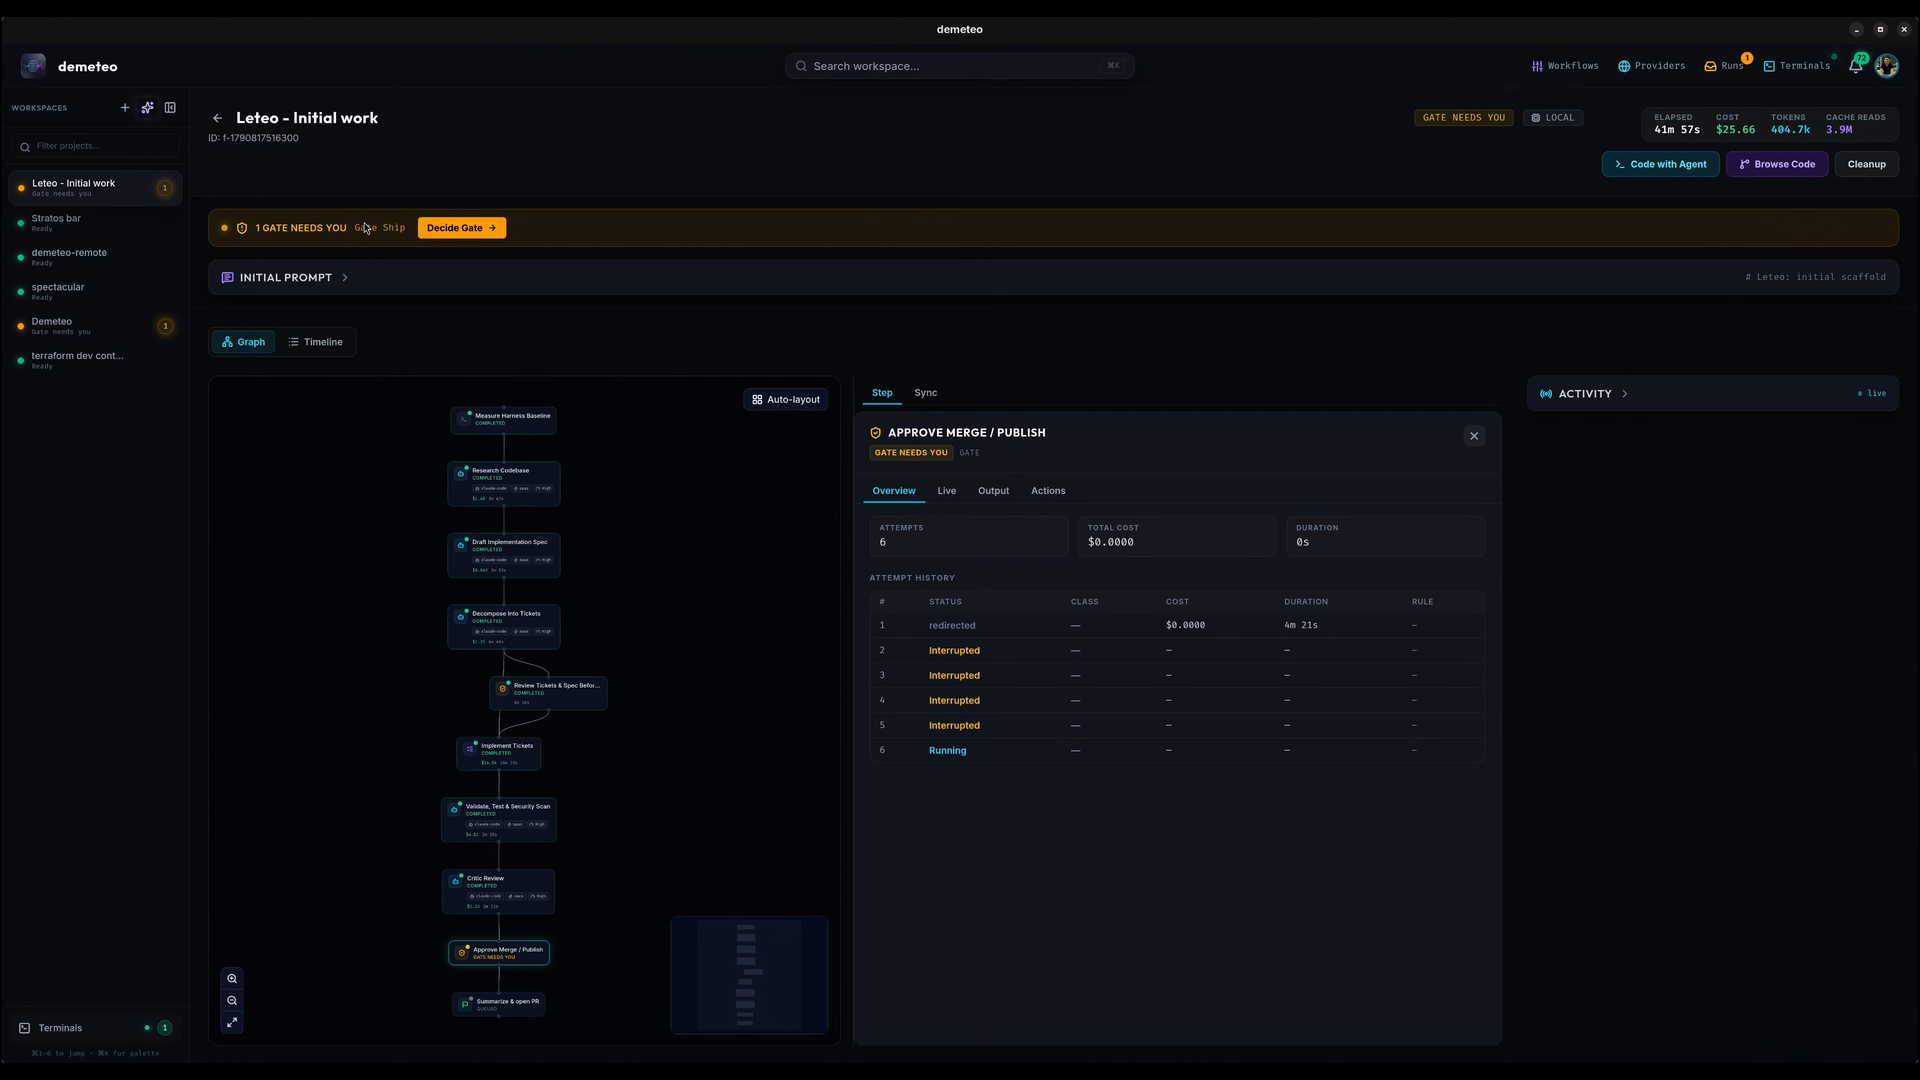
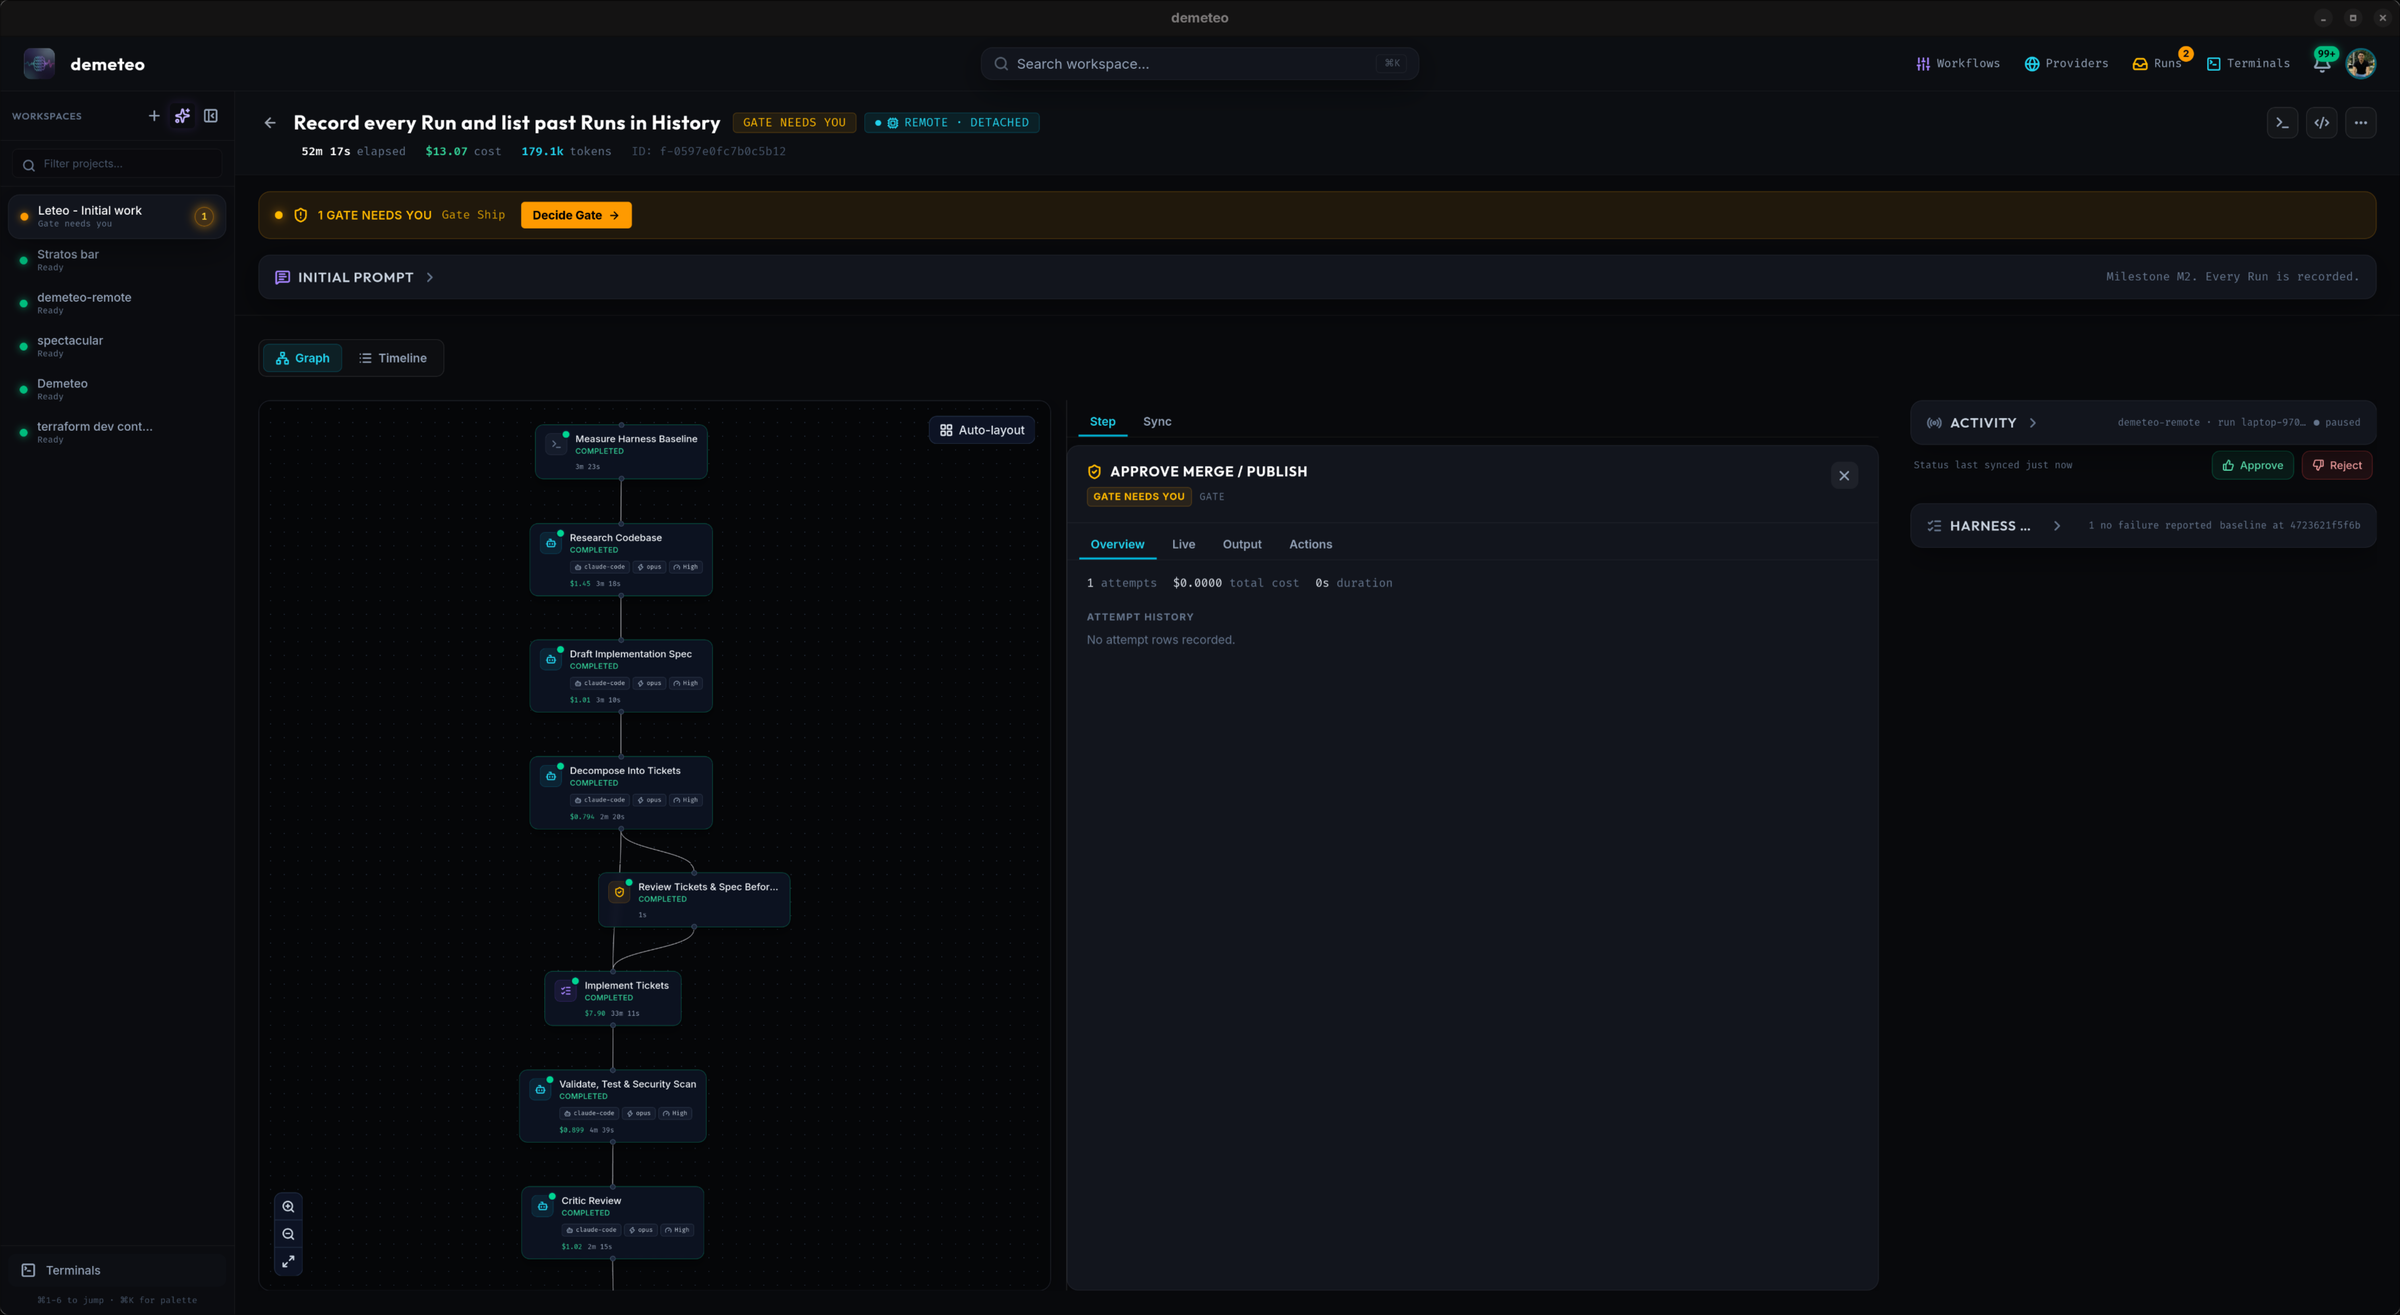
docs: replace the gate-needs-you frame with a native capture
The old frame was downscaled from a 4K recording. The new capture is a
detached run on a remote runner, so the captions now say so: it renders
the same as a local run, which is the point of the parity contract.

diff --git a/README.md b/README.md
@@ -68,8 +68,8 @@ the result to a **critic** agent whose only job is finding what the others got w
 
 | | |
 |---|---|
-| ![Feature pipeline with a "1 gate needs you" banner and the step graph](docs-site/assets/screenshots/pipeline-gate-needs-you.png) | ![Implement Tickets panel: the original decomposition and two rework rounds, every ticket landed with its cost](docs-site/assets/screenshots/pipeline-implement-tickets.png) |
-| **Pipeline view** — live step graph, elapsed time, cost and tokens; a banner when a gate is waiting on you. | **Implement** — one fresh agent per ticket, each with its cost; validation failures come back as rework rounds. |
+| ![A remote, detached feature pipeline with a "1 gate needs you" banner, the step graph, and the ship gate selected](docs-site/assets/screenshots/pipeline-gate-needs-you.png) | ![Implement Tickets panel: the original decomposition and two rework rounds, every ticket landed with its cost](docs-site/assets/screenshots/pipeline-implement-tickets.png) |
+| **Pipeline view** — live step graph, elapsed time, cost and tokens; a banner when a gate is waiting on you. This run is detached on a remote runner and renders the same as a local one. | **Implement** — one fresh agent per ticket, each with its cost; validation failures come back as rework rounds. |
 | ![critic-review.md: each acceptance criterion with its status and the evidence in the code](docs-site/assets/screenshots/critic-review.png) | ![Browse Code: changed-file tree and a side-by-side diff](docs-site/assets/screenshots/browse-code-diff.png) |
 | **Critic** — reads the landed code, not just the reports, and checks every acceptance criterion against evidence. | **Browse Code** — the feature branch's diff, in the app. |
 

diff --git a/docs-site/getting-started.md b/docs-site/getting-started.md
@@ -65,7 +65,7 @@ A project's home has three tabs — **Pipelines**, **Discovery** and **Ask**.
 
 The pipeline runs on its own until it reaches a **Gate**. A banner says *GATE NEEDS YOU*, and the project shows *Gate needs you* in the sidebar. Open the gate, read the artifacts the earlier steps wrote, and choose **Approve step**, **Redirect / Loop** (with feedback), or **Abort feature**.
 
-![A feature pipeline with a "1 gate needs you" banner and its step graph, the Approve Merge / Publish gate selected](assets/screenshots/pipeline-gate-needs-you.png)
+![A remote, detached feature pipeline with a "1 gate needs you" banner and its step graph, the Approve Merge / Publish gate selected](assets/screenshots/pipeline-gate-needs-you.png)
 
 If you'd rather not be asked at every gate, set **gate autonomy** per project — see [Settings](settings.md#agent-strategy-policies).
 

diff --git a/docs-site/journeys/start-a-feature.md b/docs-site/journeys/start-a-feature.md
@@ -38,7 +38,7 @@ Press <kbd>⌘</kbd>/<kbd>Ctrl</kbd> + <kbd>Enter</kbd> (or click **Launch featu
 
 The feature opens in its run view:
 
-![A feature pipeline: header metrics, a "1 gate needs you" banner, the step graph, and the selected gate's attempt history](../assets/screenshots/pipeline-gate-needs-you.png)
+![A remote, detached feature pipeline: header metrics, a "1 gate needs you" banner, the step graph, the selected Approve Merge / Publish gate, and the runner's Approve / Reject in Activity](../assets/screenshots/pipeline-gate-needs-you.png)
 
 - **Header** — status, where it runs, and live **elapsed time, cost, tokens and cache reads**; **Code with Agent** (an interactive agent session in the feature's worktree) and **Browse Code** (the feature branch's diff, read-only).
 - **Initial prompt** and any **attachments**.

diff --git a/docs-site/workflows.md b/docs-site/workflows.md
@@ -70,7 +70,7 @@ An automatic approval never redirects or rejects. A run detached to a remote run
 
 The default workflow has ten steps:
 
-![Feature pipeline with a "1 gate needs you" banner and the Standard pipeline's step graph](assets/screenshots/pipeline-gate-needs-you.png)
+![A remote, detached feature pipeline with a "1 gate needs you" banner and the Standard pipeline's step graph](assets/screenshots/pipeline-gate-needs-you.png)
 
 | # | Step | Kind | What it does |
 |---|------|------|--------------|
